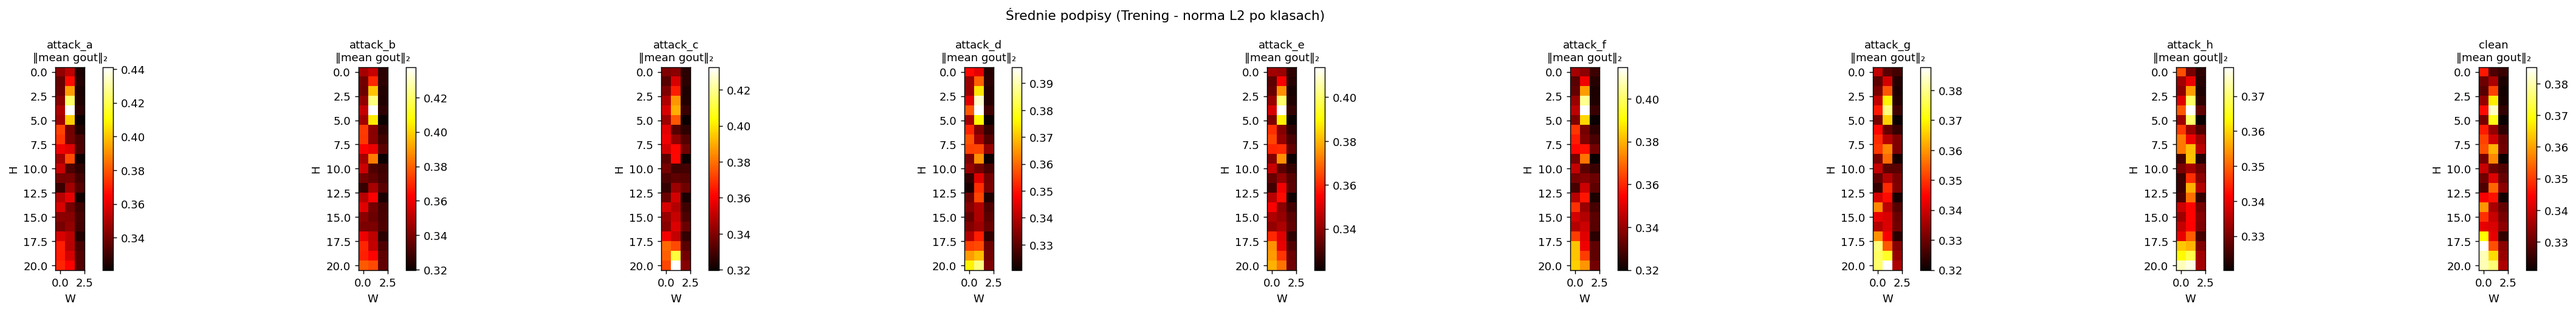
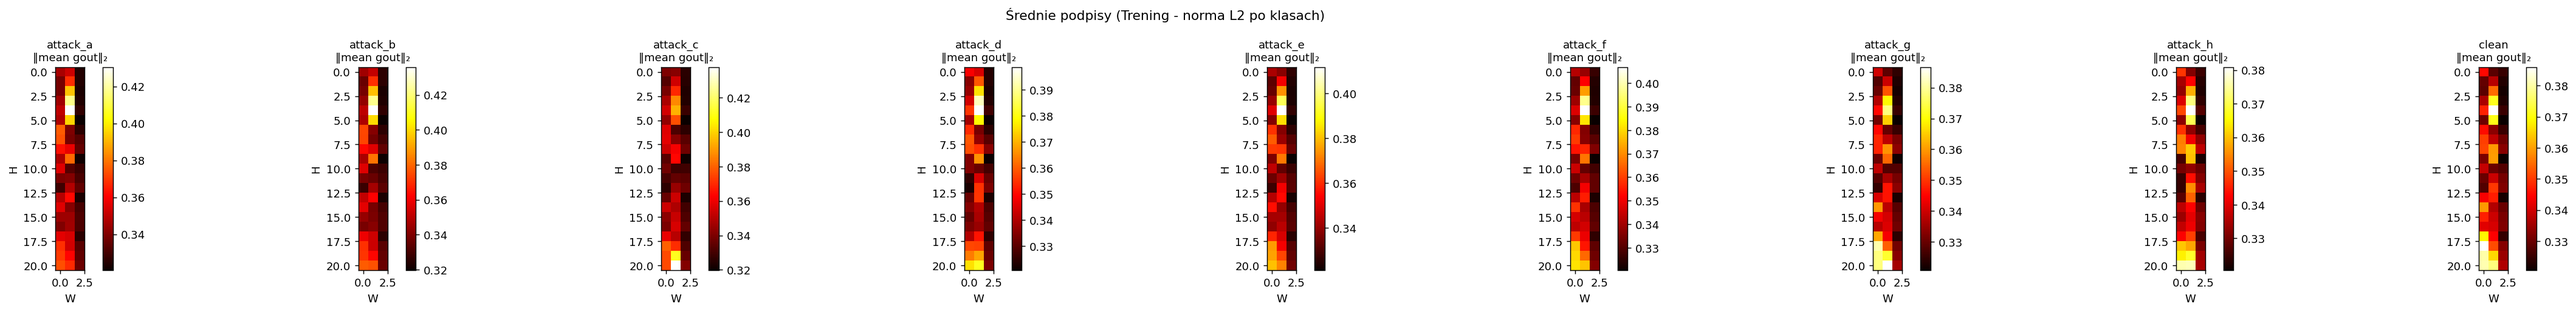
Domielone na ostatnich labach

diff --git a/lab3/ls3.py b/lab3/ls3.py
@@ -330,4 +330,4 @@ def main(pythia_root: str = "./pythia",
 if __name__ == "__main__":
     multiprocessing.freeze_support()
     root = sys.argv[1] if len(sys.argv) > 1 else "./Pythia"
-    main(pythia_root=root, max_samples=100)
+    main(pythia_root=root, max_samples=300)
